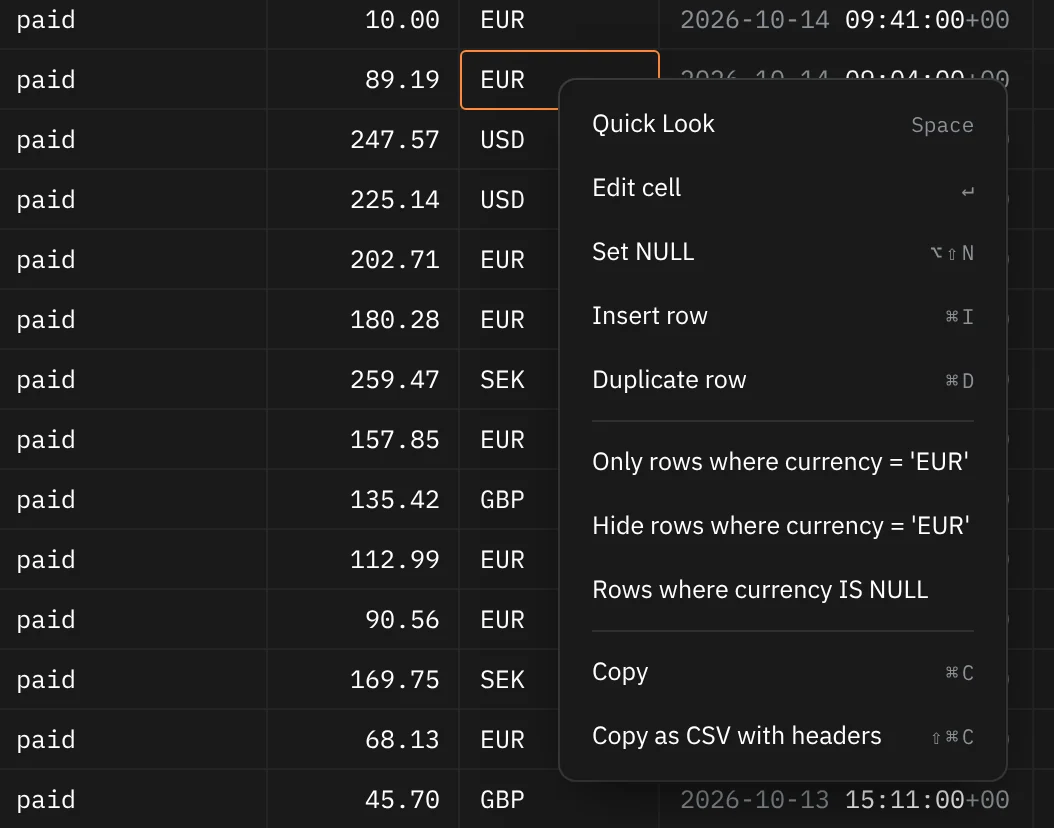
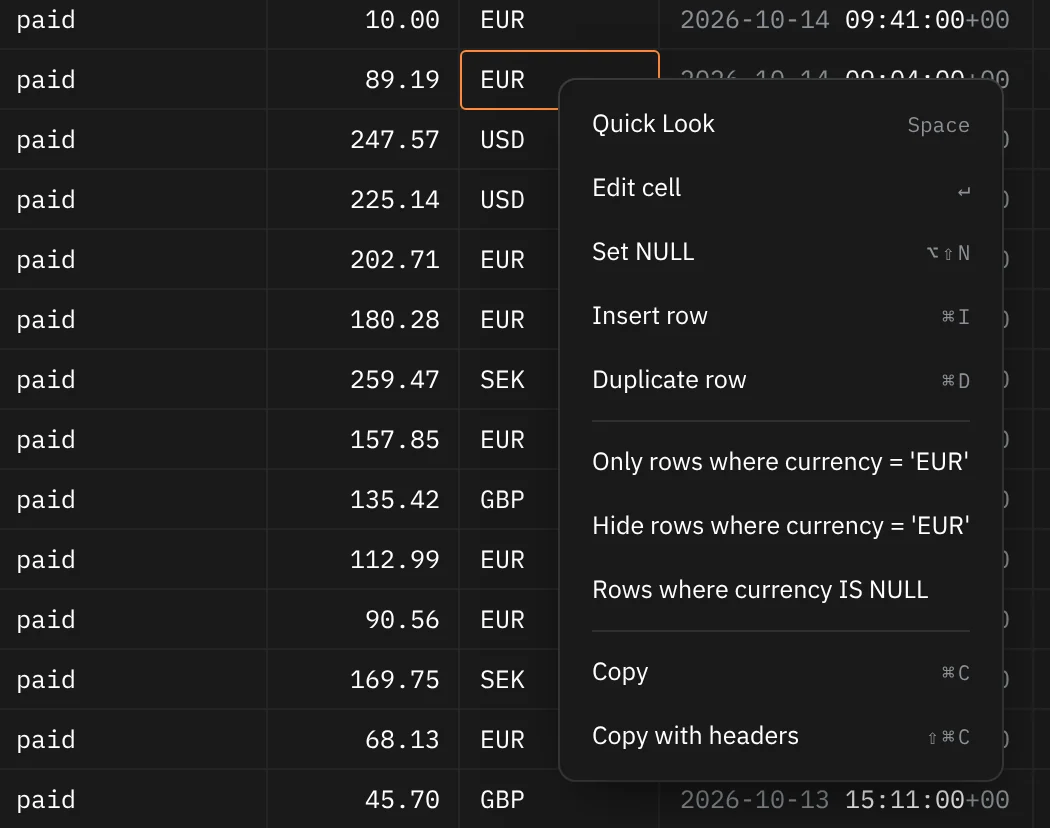
fix(grid): copy blocks as quoted TSV and paste them back with NULLs intact (#93)
* fix(grid): copy blocks as quoted TSV and paste them back with NULLs intact

Copy now writes TSV that a spreadsheet and the grid both read, remembers its
cells so a paste of that same text keeps NULL apart from the text NULL,
and paste parses quoted TSV, CSV and one value per line.

* fix(grid): keep comma lines as one value and forget stale copies on paste

A pasted line with commas stays one cell; CSV is read only with several
lines, a quoted field and matching field counts. A malformed quote is taken
literally instead of breaking the whole paste. The grid's last copy keeps
only its text and NULL positions, and is forgotten on any other copy or
when the window loses focus. NULL pastes as NULL in non-text columns. Spec,
shortcut sheet and the cell-menu screenshot now say TSV.

diff --git a/apps/rowkery-tauri/src/resultsExport.ts b/apps/rowkery-tauri/src/resultsExport.ts
@@ -1,3 +1,4 @@
+import { parsePaste } from "./editBuffer";
 import type { QueryResultDto } from "./types";
 
 function csvField(s: string): string {
@@ -26,8 +27,20 @@ export function resultsToText(
   return lines.join("\n");
 }
 
-/** A block of cells as CSV: rows `r0..r1`, columns `c0..c1` (inclusive). */
-export function cellsToCsv(
+/** A grid copy: the text for the clipboard, and which cells of it were NULL (`row * width + col`). */
+export interface CopiedCells {
+  text: string;
+  width: number;
+  nulls: Set<number>;
+}
+
+/** Quoted the way spreadsheets quote TSV: a tab, line break or quote wraps the field in quotes. */
+function tsvQuoted(s: string): string {
+  return /[\t\r\n"]/.test(s) ? `"${s.replace(/"/g, '""')}"` : s;
+}
+
+/** A block of cells as TSV: rows `r0..r1`, columns `c0..c1` (inclusive); NULL is an empty field. */
+export function cellsToTsv(
   result: QueryResultDto,
   r0: number,
   r1: number,
@@ -36,20 +49,55 @@ export function cellsToCsv(
   withHeader: boolean,
   /** A cell's text; the grid passes its staged edits over the loaded rows. */
   text: (row: number, col: number) => string = (r, c) => result.rows.text(r, c),
-): string {
+  isNull: (row: number, col: number) => boolean = (r, c) => result.rows.isNull(r, c),
+): CopiedCells {
+  const width = c1 - c0 + 1;
+  const nulls = new Set<number>();
   const lines: string[] = [];
-  if (withHeader) {
-    lines.push(
-      result.columns
-        .slice(c0, c1 + 1)
-        .map((c) => csvField(c.name))
-        .join(","),
-    );
-  }
+  if (withHeader) lines.push(result.columns.slice(c0, c1 + 1).map((c) => tsvQuoted(c.name)).join("\t"));
   for (let r = r0; r <= r1; r++) {
     const fields: string[] = [];
-    for (let c = c0; c <= c1; c++) fields.push(csvField(text(r, c)));
-    lines.push(fields.join(","));
+    for (let c = c0; c <= c1; c++) {
+      if (isNull(r, c)) nulls.add(lines.length * width + c - c0);
+      fields.push(isNull(r, c) ? "" : tsvQuoted(text(r, c)));
+    }
+    lines.push(fields.join("\t"));
   }
-  return lines.join("\n");
+  return { text: lines.join("\n"), width, nulls };
+}
+
+/**
+ * The grid's last copy. Clipboard text can't tell NULL from the text "NULL" or an empty
+ * string, and WKWebView doesn't carry custom clipboard formats, so a paste whose text is
+ * exactly what the grid last wrote takes its NULLs from here. Any other copy, or leaving the
+ * window (where another app may copy the same text), forgets it.
+ */
+let lastCopy: CopiedCells | null = null;
+
+export function rememberCopy(copy: CopiedCells): void {
+  lastCopy = copy;
+}
+
+// The grid's ⌘C prevents the native copy event, so any copy or cut event is someone else's.
+if (typeof window !== "undefined") {
+  const forget = () => (lastCopy = null);
+  document.addEventListener("copy", forget, true);
+  document.addEventListener("cut", forget, true);
+  window.addEventListener("blur", forget);
+  document.addEventListener("visibilitychange", forget);
+}
+
+const sameText = (t: string) => t.replace(/\r\n?/g, "\n").replace(/\n$/, "");
+
+/** A pasted block's cells, with NULL (`null`) where the grid's last copy, when `text` is it, had one. */
+export function pastedCells(text: string): (string | null)[][] {
+  const block: (string | null)[][] = parsePaste(text);
+  const copy = lastCopy;
+  if (copy?.nulls.size && sameText(copy.text) === sameText(text)) {
+    for (const i of copy.nulls) {
+      const line = block[Math.floor(i / copy.width)];
+      if (line) line[i % copy.width] = null;
+    }
+  }
+  return block;
 }

diff --git a/apps/rowkery-tauri/src/editBuffer.ts b/apps/rowkery-tauri/src/editBuffer.ts
@@ -394,8 +394,69 @@ export function editorStartText(kind: EditorKind, initial: Value | null): string
   return kind === "json" ? jsonEditorText(raw) : raw;
 }
 
-/** A pasted block: TSV when it has tabs, else one value per line. */
+/**
+ * Rows of fields split on `sep`. A field is quoted only when it opens with a quote, closes at a
+ * field or line boundary and needed the quotes (a `sep`, line break or `""` inside); anything
+ * else, like Excel's `"Best" seller` or a lone `"hello"`, is taken as it is.
+ */
+function splitQuoted(text: string, sep: string): { rows: string[][]; quoted: boolean } {
+  const rows: string[][] = [];
+  let row: string[] = [];
+  let quoted = false;
+  let i = 0;
+  const boundary = (at: number) => at >= text.length || text[at] === sep || text[at] === "\n";
+  for (;;) {
+    let field: string | null = null;
+    if (text[i] === '"') {
+      let j = i + 1;
+      let inner = "";
+      let escaped = false;
+      for (;;) {
+        const q = text.indexOf('"', j);
+        if (q < 0) break;
+        inner += text.slice(j, q);
+        if (text[q + 1] === '"') {
+          inner += '"';
+          escaped = true;
+          j = q + 2;
+          continue;
+        }
+        if (boundary(q + 1) && (escaped || inner.includes(sep) || inner.includes("\n"))) {
+          field = inner;
+          i = q + 1;
+          quoted = true;
+        }
+        break;
+      }
+    }
+    if (field === null) {
+      let end = i;
+      while (!boundary(end)) end++;
+      field = text.slice(i, end);
+      i = end;
+    }
+    row.push(field);
+    if (i >= text.length) break;
+    if (text[i] === "\n") {
+      rows.push(row);
+      row = [];
+    }
+    i++;
+  }
+  rows.push(row);
+  return { rows, quoted };
+}
+
+/**
+ * A pasted block: TSV, which with no tabs is one value per line. Only text with no tabs, several
+ * lines, a quoted field and the same two or more fields on every line is read as CSV.
+ */
 export function parsePaste(text: string): string[][] {
-  const lines = text.replace(/\r\n?/g, "\n").replace(/\n$/, "").split("\n");
-  return lines.map((l) => (l.includes("\t") ? l.split("\t") : [l]));
+  const t = text.replace(/\r\n?/g, "\n").replace(/\n$/, "");
+  if (!t.includes("\t") && t.includes("\n") && t.includes('"') && t.includes(",")) {
+    const csv = splitQuoted(t, ",");
+    const n = csv.rows[0].length;
+    if (csv.quoted && csv.rows.length > 1 && n > 1 && csv.rows.every((r) => r.length === n)) return csv.rows;
+  }
+  return splitQuoted(t, "\t").rows;
 }

diff --git a/apps/rowkery-tauri/src/ResultsGrid.tsx b/apps/rowkery-tauri/src/ResultsGrid.tsx
@@ -20,8 +20,7 @@ import { CellEditor, type EditMove } from "./CellEditor";
 import { commandById, eventMatches } from "./commands";
 import { isMacPlatform } from "./platform";
 import { showToast, toastPreview } from "./notify";
-import { cellsToCsv } from "./resultsExport";
-import { parsePaste } from "./editBuffer";
+import { cellsToTsv, pastedCells, rememberCopy } from "./resultsExport";
 import { GridMenu, type GridMenuItem } from "./GridMenu";
 import { cellMenu, headerMenu as headerMenuRows } from "./contextMenus";
 import type { CommandState } from "./commands";
@@ -764,7 +763,10 @@ function ResultsGridView({
       if (!multi && !withHeader) {
         // One cell copies its value as is, unquoted.
         const { row, col } = sel.active;
-        void copyText(shown.isNull(row, col) ? "NULL" : shown.text(row, col));
+        const nul = shown.isNull(row, col);
+        const text = nul ? "NULL" : shown.text(row, col);
+        rememberCopy({ text, width: 1, nulls: new Set(nul ? [0] : []) });
+        void copyText(text);
         return;
       }
       const nRows = r1 - r0 + 1;
@@ -773,9 +775,11 @@ function ResultsGridView({
         nCols === columns.length
           ? `Copied ${nRows.toLocaleString()} ${nRows === 1 ? "row" : "rows"}`
           : `Copied ${(nRows * nCols).toLocaleString()} ${nRows * nCols === 1 ? "cell" : "cells"}`;
-      const detail = withHeader ? "CSV with header" : "CSV";
+      const detail = withHeader ? "TSV with header" : "TSV";
+      const copy = cellsToTsv(result, r0, r1, c0, c1, withHeader, shown.text, shown.isNull);
+      rememberCopy(copy);
       navigator.clipboard
-        .writeText(cellsToCsv(result, r0, r1, c0, c1, withHeader, shown.text))
+        .writeText(copy.text)
         .then(
           () => showToast(label, detail),
           // Clipboard can be unavailable (permissions, headless proof runs).
@@ -1138,7 +1142,9 @@ function ResultsGridView({
           if (!editing || !sel || editor) return;
           e.preventDefault();
           if (editing.refusal) editing.onRefused();
-          else editing.paste(sel.active.row, sel.active.col, parsePaste(e.clipboardData.getData("text/plain")));
+          else {
+            editing.paste(sel.active.row, sel.active.col, pastedCells(e.clipboardData.getData("text/plain")));
+          }
         }}
       >
         <GridMenu at={menuAt} items={menuItems} name="grid" label="Cell" onPick={pickMenu} onClose={closeMenu} />

diff --git a/apps/rowkery-tauri/test/editBuffer.test.ts b/apps/rowkery-tauri/test/editBuffer.test.ts
@@ -142,6 +142,44 @@ describe("typed input", () => {
     expect(parsePaste("a\tb\r\nc\td\n")).toEqual([["a", "b"], ["c", "d"]]);
     expect(parsePaste("one\ntwo")).toEqual([["one"], ["two"]]);
   });
+
+  test("quoted TSV keeps line breaks, tabs and quotes in one cell", () => {
+    expect(parsePaste('"Kuala\nLumpur"\tx\n"a\tb"\t"say ""hi"""\n')).toEqual([
+      ["Kuala\nLumpur", "x"],
+      ["a\tb", 'say "hi"'],
+    ]);
+    expect(parsePaste("a\t\nb\tc")).toEqual([["a", ""], ["b", "c"]]);
+    // A stray quote isn't a quoted field: split on tabs as is.
+    expect(parsePaste('5" pipe\tx')).toEqual([['5" pipe', "x"]]);
+  });
+
+  test("a bad quote is taken literally and leaves the rest of the block alone", () => {
+    // Excel's unquoted `"Best" seller` beside a quoted multi-line cell.
+    expect(parsePaste('"Best" seller\t"a\nb"\nx\ty')).toEqual([['"Best" seller', "a\nb"], ["x", "y"]]);
+    // An unquoted field starting with a quote doesn't swallow the cells after it.
+    expect(parsePaste('"open\tb\tc\nd\te\tf')).toEqual([['"open', "b", "c"], ["d", "e", "f"]]);
+    // A lone quoted word keeps its quotes, so a JSON string pastes as it is.
+    expect(parsePaste('"hello"')).toEqual([['"hello"']]);
+    expect(parsePaste('"hello"\t{"a": 1}')).toEqual([['"hello"', '{"a": 1}']]);
+  });
+
+  test("a line with commas is one value", () => {
+    for (const v of ["12 Jalan Ampang, Kuala Lumpur", "3,14", "[1, 2, 3]", '{"a": 1, "b": 2}', '"x","y"']) {
+      expect(parsePaste(v)).toEqual([[v]]);
+    }
+    expect(parsePaste("Hopper, Grace\nTuring, Alan")).toEqual([["Hopper, Grace"], ["Turing, Alan"]]);
+  });
+
+  test("CSV only with several lines, a quoted field and the same fields on each", () => {
+    expect(parsePaste('a,b\n"c,d","e\nf"')).toEqual([["a", "b"], ["c,d", "e\nf"]]);
+    expect(parsePaste('a,b,c\n"c,d"')).toEqual([["a,b,c"], ['"c,d"']]);
+    expect(parsePaste("a,b\nc,d")).toEqual([["a,b"], ["c,d"]]);
+  });
+
+  test("one column: a value per line, a quoted one keeps its line break", () => {
+    expect(parsePaste('"two\nlines"\nNULL\n')).toEqual([["two\nlines"], ["NULL"]]);
+    expect(parsePaste("")).toEqual([[""]]);
+  });
 });
 
 describe("a value closed as it opened stages nothing", () => {

diff --git a/apps/rowkery-tauri/test/gridClipboard.test.ts b/apps/rowkery-tauri/test/gridClipboard.test.ts
@@ -1,0 +1,52 @@
+// ⌘C on a grid block writes TSV and remembers where its NULLs were; ⌘V of that same text gets them back.
+import { describe, expect, test } from "vitest";
+import { cellsToTsv, pastedCells, rememberCopy } from "../src/resultsExport";
+import { ResultRows } from "../src/resultStore";
+import type { QueryResultDto } from "../src/types";
+
+const result: QueryResultDto = {
+  columns: [
+    { name: "id", type_name: "int4" },
+    { name: "note", type_name: "text" },
+  ],
+  rows: ResultRows.fromValues([
+    [{ Int: 1 }, { Null: null }],
+    [{ Int: 2 }, { Text: "NULL" }],
+    [{ Int: 3 }, { Text: "" }],
+    [{ Int: 4 }, { Text: 'two\nlines\twith "quotes"' }],
+    [{ Int: 5 }, { Text: '"hello"' }],
+  ]),
+  row_count: 5,
+  elapsed_ms: 1,
+  error: null,
+  cancelled: false,
+};
+
+const cells = [["1", null], ["2", "NULL"], ["3", ""], ["4", 'two\nlines\twith "quotes"'], ["5", '"hello"']];
+
+describe("grid copy and paste", () => {
+  const copy = cellsToTsv(result, 0, 4, 0, 1, false);
+
+  test("copies TSV, quoting what needs it", () => {
+    expect(copy.text).toBe('1\t\n2\tNULL\n3\t\n4\t"two\nlines\twith ""quotes"""\n5\t"""hello"""');
+    expect([...copy.nulls]).toEqual([1]);
+  });
+
+  test("the grid's own copy pastes back exactly, NULL included", () => {
+    rememberCopy(copy);
+    expect(pastedCells(copy.text)).toEqual(cells);
+    // The clipboard may hand it back with CRLF or a trailing line break.
+    expect(pastedCells(copy.text.replace(/\n/g, "\r\n") + "\r\n")).toEqual(cells);
+  });
+
+  test("with the header, the NULLs stay on their rows", () => {
+    rememberCopy(cellsToTsv(result, 0, 1, 0, 1, true));
+    expect(pastedCells("id\tnote\n1\t\n2\tNULL")).toEqual([["id", "note"], ["1", null], ["2", "NULL"]]);
+  });
+
+  test("other text parses as is: NULL stays text, NULL and empty both read empty", () => {
+    rememberCopy(copy);
+    expect(pastedCells("1\t")).toEqual([["1", ""]]);
+  });
+  // Forgetting it on another copy or on leaving the window: row-edits-browser-proof.mjs.
+});

diff --git a/apps/rowkery-tauri/src/useRowEdits.ts b/apps/rowkery-tauri/src/useRowEdits.ts
@@ -182,7 +182,7 @@ export function useRowEdits(o: Options) {
 
   /** A pasted block, cell by cell from the ring; what falls outside, or doesn't parse, is left. */
   const paste = useCallback(
-    (row: number, col: number, block: string[][]) => {
+    (row: number, col: number, block: (string | null)[][]) => {
       let total = 0;
       let staged = 0;
       update((b) => {
@@ -195,7 +195,8 @@ export function useRowEdits(o: Options) {
             const ed = editors[c];
             const key = r < rows.length ? keyOf(r) : null;
             if (!ed || !key || states.get(r)?.mark === "delete") return;
-            const asNull = text === "NULL" || (text === "" && ed.kind !== "text");
+            // In a text column only the grid's own copy (`null`) is NULL; "NULL" and "" stay text.
+            const asNull = text === null || (ed.kind !== "text" && (text === "" || text === "NULL"));
             const parsed = asNull ? { value: null } : parseInput(ed.kind, text);
             if ("error" in parsed) return;
             next = stageCell(next, key, names[c], parsed.value, rows.isNull(r, c) ? null : rows.get(r, c), ed.kind);

diff --git a/apps/rowkery-tauri/src/commands.ts b/apps/rowkery-tauri/src/commands.ts
@@ -278,7 +278,7 @@ const zoneCommands = (): Command[] => [
   },
   {
     id: "copy-cells-with-headers",
-    title: "Copy as CSV with headers",
+    title: "Copy with headers",
     section: "Grid",
     chord: { mac: "Mod+Shift+C" },
     palette: false,
@@ -1091,7 +1091,7 @@ export interface Gesture {
 
 export const GESTURES: Gesture[] = [
   { id: "tab-expand-star", title: "Expand * into the column list", section: "Editor", keys: { mac: "⇥ after *", other: "Tab after *" } },
-  { id: "copy-cells", title: "Copy the cell, or the block as CSV", section: "Grid", chord: { mac: "Mod+C" } },
+  { id: "copy-cells", title: "Copy the cell, or the block as TSV", section: "Grid", chord: { mac: "Mod+C" } },
   { id: "copy-cells-with-headers", title: "Copy the block with column names", section: "Grid", chord: { mac: "Mod+Shift+C" } },
   { id: "grid-select-all", title: "Select the whole result", section: "Grid", chord: { mac: "Mod+A" } },
   { id: "grid-extend", title: "Extend the selection", section: "Grid", keys: { mac: "⇧-click · ⇧↑↓←→", other: "Shift+click/arrows" } },

diff --git a/apps/rowkery-tauri/test/bigint.test.ts b/apps/rowkery-tauri/test/bigint.test.ts
@@ -1,7 +1,7 @@
 // int8 beyond JavaScript's exact range arrives as { BigInt: "<digits>" }
 // (rowkery-core's Value serializer) and every reader keeps it exact.
 import { describe, expect, test } from "vitest";
-import { cellsToCsv, resultsToText } from "../src/resultsExport";
+import { cellsToTsv, resultsToText } from "../src/resultsExport";
 import { rowToJson, sqlLiteral } from "../src/QuickLook";
 import { columnProfiles as profilesOf, summarizeRows } from "../src/columnProfile";
 import { ResultRows } from "../src/resultStore";
@@ -46,7 +46,7 @@ describe("BigInt cells", () => {
   });
 
   test("a copied block keeps them exact", () => {
-    expect(cellsToCsv(result, 0, 0, 0, 1, true)).toBe(`id,note\n${MAX},max`);
+    expect(cellsToTsv(result, 0, 0, 0, 1, true).text).toBe(`id\tnote\n${MAX}\tmax`);
   });
 
   test("Quick Look's JSON writes them as bare exact numbers", () => {

diff --git a/apps/rowkery-tauri/src/gridTypes.ts b/apps/rowkery-tauri/src/gridTypes.ts
@@ -58,7 +58,7 @@ export interface GridEditing {
   removeInsert: (id: number) => void;
   duplicate: (rows: number[]) => void;
   toggleDelete: (rows: number[]) => void;
-  paste: (row: number, col: number, block: string[][]) => void;
+  paste: (row: number, col: number, block: (string | null)[][]) => void;
   /** The foreign key picker's search of the referenced table. */
   searchKey?: (col: number, query: string) => Promise<KeyChoice[]>;
   /** A new row ⌘I just added: its first column's editor opens. */

diff --git a/apps/rowkery-tauri/src/contextMenus.ts b/apps/rowkery-tauri/src/contextMenus.ts
@@ -81,7 +81,7 @@ export function cellMenu(o: {
   }
   rows.push(
     { id: "csv", label: "Copy", command: "copy-cells", separated: true },
-    { id: "csv-header", label: "Copy as CSV with headers", command: "copy-cells-with-headers" },
+    { id: "csv-header", label: "Copy with headers", command: "copy-cells-with-headers" },
   );
   if (o.openAsTable) rows.push({ id: "open-table", label: "Open as table tab", separated: true });
   return rows;

diff --git a/docs/spec.md b/docs/spec.md
@@ -51,7 +51,7 @@ Each window is one connection and one database. Windows are restored on launch w
 
 - **Editor:** SQL with syntax colour, the statement under the caret marked by an orange bar, completion from the catalog (⌃Space, or as you type), ranked by your keyword habits. ⌘↵ runs the statement under the caret, ⌥⌘↵ runs them all; ⌘. or Esc cancels. ⌘I (Format SQL) lays out the statement under the caret, or every statement a selection touches, in the tabular style (sql-formatter, loaded on first use) as one undo step; SQL that doesn't parse stays as typed. Tab right after `*` in a SELECT list spells out the columns.
 - **Results:** the Results card with the count and time, Export… ⇧⌘E (CSV, TSV, JSON or SQL INSERTs, streamed to a file through the native save dialog) and the zone's `…` menu. A free-form read pages through a SQL cursor on the tab's own session (1,000 rows a page; 5,000 or All in the page-size control) and Load more fetches the next page. Inside a transaction of yours the cursor sits between a savepoint and its release, so your transaction stays open and as it was; a failed transaction or a read with a locking clause runs plainly. ⌘K "Copy all results as CSV / TSV" streams the whole result with a count and Cancel. A query with its own LIMIT is left alone.
-- **In the grid:** a header click sorts the loaded rows; ⌘F finds in the loaded rows (↵ / ⇧↵ step). A block of cells shows count · sum · avg. ⌘C copies the cell or the block as CSV, ⇧⌘C with column names. When a query reads one table, the cell menu offers Open as table tab.
+- **In the grid:** a header click sorts the loaded rows; ⌘F finds in the loaded rows (↵ / ⇧↵ step). A block of cells shows count · sum · avg. ⌘C copies the cell, or the block as TSV (spreadsheet quoting), ⇧⌘C with column names; ⌘V over editable cells stages a pasted block. When a query reads one table, the cell menu offers Open as table tab.
 - **A failed run** shows the server's sentence, the name it probably meant ("Did you mean name?", within two edits, from the completion index) with Replace and run, and the raw text with its SQLSTATE; the editor jumps to the error's position.
 - **Plan (⌘E):** the statement's plan in place of the results, as a short tree: one row per step with its own share of the time (or of the cost, for an estimate), the slowest step tinted, row guesses ten times off tagged, and at most one plain hint (`plan.rs`). Explain with timings runs it with ANALYZE; a write goes through safe mode and is rolled back.
 - **Session:** each query tab keeps its own warm session between runs, so `SET` and `BEGIN … COMMIT` carry across runs and cancel only ever hits that tab's backend.
